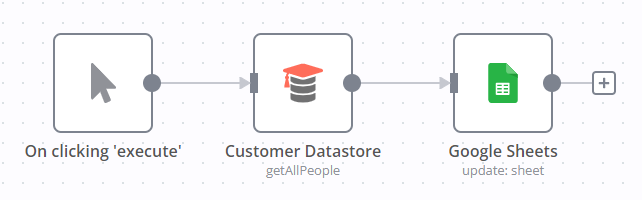
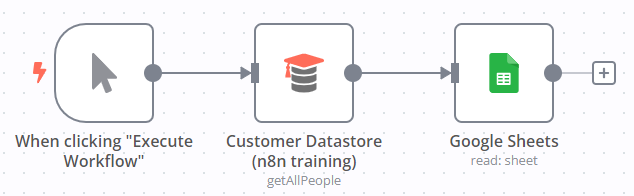
update google sheets doc

Changed region(s): [[0.0, 0.0918, 0.989, 0.949], [0.1199, 0.2755, 0.1798, 0.5204]]

diff --git a/docs/integrations/builtin/app-nodes/n8n-nodes-base.googlesheets.md b/docs/integrations/builtin/app-nodes/n8n-nodes-base.googlesheets.md
@@ -20,16 +20,17 @@ On this page, you'll find a list of operations the Google Sheets node supports a
 ## Operations
 
 * Document
-  * Create
+    * Create
 	* Delete
 * Sheet within document
-	* Append or update: append a new row, or update the current one if it already exists.
+	* Append or Update Row: append a new row, or update the current one if it already exists.
+	* Append Row: create a new row.
 	* Clear: clear all data from a sheet
 	* Create: create a new sheet
-	* Delete: delete columns and rows from a sheet
-	* Read rows: read all rows in a sheet.
-	* Remove: remove a sheet
-	* Update: update rows in a sheet
+	* Delete: delete a sheet
+	* Delete Rows or Columns: delete columns and rows from a sheet
+	* Get Many Rows: read all rows in a sheet.
+	* Update Row: update rows in a sheet
 
 ## Related resources
 
@@ -46,12 +47,11 @@ To update data in a sheet:
 3. In **Operation**, select one of the append operations.
 4. Choose the **Document** and **Sheet** you want to edit.
 5. Choose your **Data Mode**:
-	* **Auto-Map Input Data to Columns**: use this when the table column names (or JSON parameter names) in the node input view match the column names in your spreadsheet. In **Column to Match On**, select the column name in Google Sheets that you want to map to.
-	* **Map Each Column Below**: use this when the column names and data structure in your node input data doesn't match the names and structure in Google Sheets. 
+	* **Map Automatically**: use this when the table column names (or JSON parameter names) in the node input view match the column names in your spreadsheet. In **Column to Match On**, select the column name in Google Sheets that you want to map to.
+	* **Map Each Column Manually**: use this when the column names and data structure in your node input data doesn't match the names and structure in Google Sheets. 
 		1. In **Column to Match On**, select or enter the column name in Google Sheets. 
-		2. In **Value of Column to Match On**, drag in the table column (or JSON parameter) whose value you want to search for. 
-		3. In **Values to Send** select **Add Field**. 
-		4. Enter a **Column** from your Google Sheet, and the value from the node input data you want to add to that column in **Value**.
+		2. In the first field in **Value to Update**, drag in the table column (or JSON parameter) whose value you want to search for.
+		3. In the second field of **Values to Update**, drag in the value you want to add. 
 
 			??? Details "View example and screenshots"
 				This example uses the Customer Datastore node to provide sample data to load into Google Sheets. It assumes you've already set up your [credentials](/integrations/builtin/credentials/google/).
@@ -62,10 +62,10 @@ To update data in a sheet:
 				![The spreadsheet set up for testing](/_images/integrations/builtin/app-nodes/googlesheets/workflow.png)  
 				3. Open the Customer Datastore node, enable **Return All**, then select **Execute node**.
 				4. In the Google Sheets node, go through the steps above, using these settings:
-					* Select **Update** as the **Operation**.
+					* Select **Update Row** as the **Operation**.
 					* In **Column to Match On**, select `test1`.
-					* For **Value of Column to Match On**, drag in the **name** column from the input view.
-					* Then set up your **Values to Send**: enter `test2` in **Column**, and drag the **email** column from the input view into **Value**.
+					* For the first field of **Values to Update**, drag in the **name** from the input view.
+					* For the second field of **Values to Update**, drag in the **email** from the input view.
 				5. Select **Execute node**.
 				6. View your spreadsheet. **test2** should now contain the email addresses that match to the names in the input data.  
 				![The spreadsheet set up for testing](/_images/integrations/builtin/app-nodes/googlesheets/test-sheet-after.png)  
@@ -79,7 +79,7 @@ To read from a sheet:
 
 1. Select your **Authentication** method and credential. Refer to [Google credentials](/integrations/builtin/credentials/google/) for more information.
 2. In **Resource**, select **Sheet Within Document**.
-3. In **Operation**, select **Read Rows**.
+3. In **Operation**, select **Get Many Rows**.
 4. Choose the **Document** and **Sheet** you want to read from.
 
 !!! note "First row"
